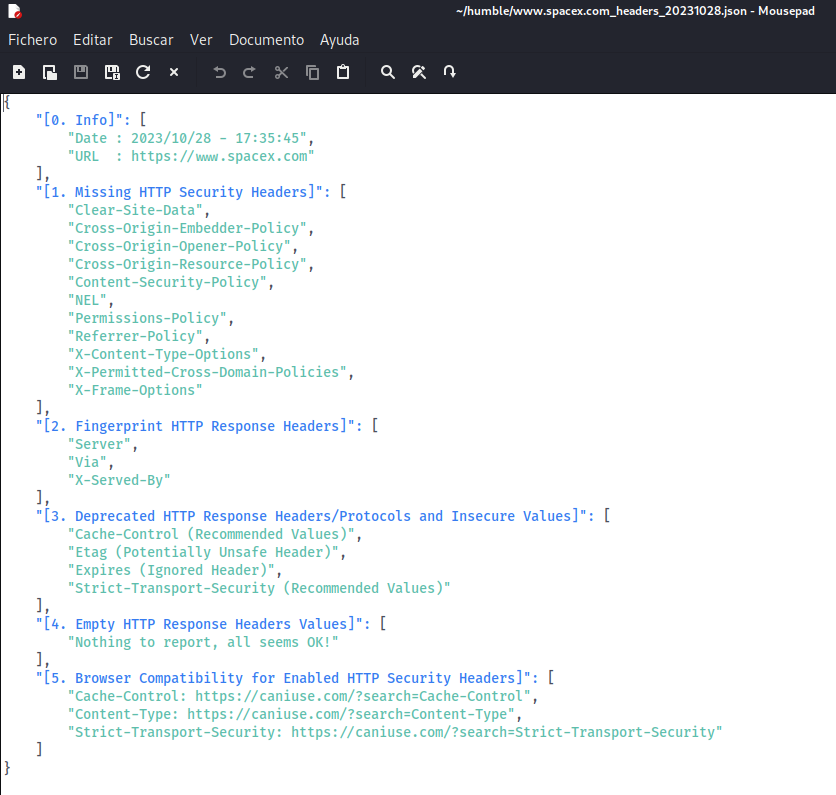
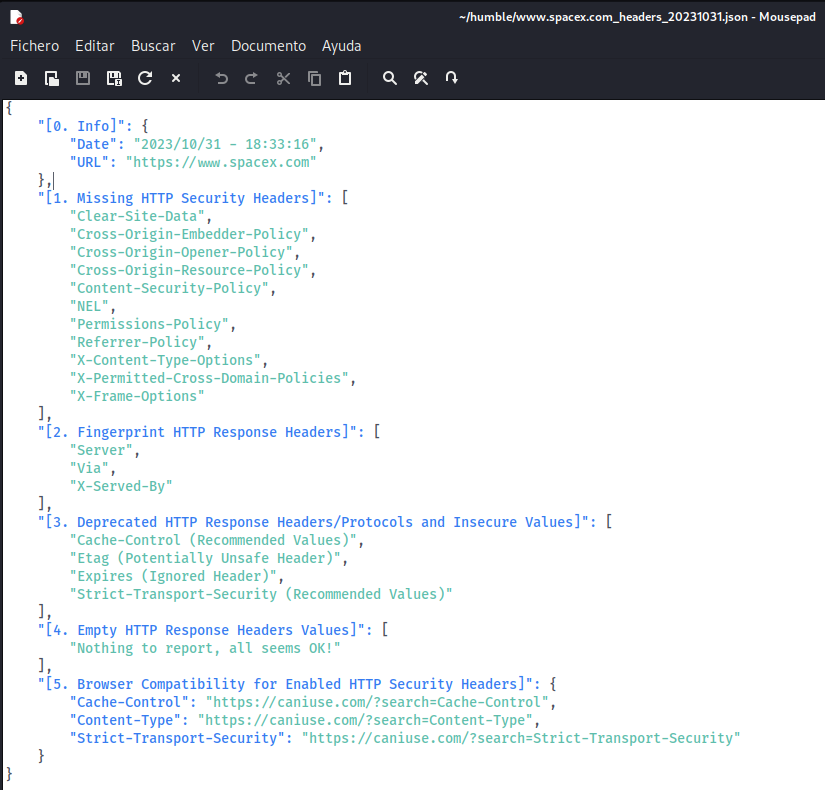
Feature: Improved JSON generation

Changed region(s): [[0.0, 0.0, 1.0, 0.9418], [0.5455, 0.0, 1.0, 0.0304], [0.0, 0.9418, 0.0606, 1.0]]

diff --git a/humble.py b/humble.py
@@ -76,7 +76,7 @@ URL_S = ' URL  : '
 
 export_date = datetime.now().strftime("%Y%m%d")
 now = datetime.now().strftime("%Y/%m/%d - %H:%M:%S")
-version = datetime.strptime('2023-10-28', '%Y-%m-%d').date()
+version = datetime.strptime('2023-10-31', '%Y-%m-%d').date()
 
 
 class PDF(FPDF):
@@ -730,21 +730,33 @@ def parse_csp(csp_header):
 
 
 def generate_json(name_e, name_p):
+    section0 = get_detail('[0section]', replace=True)
+    section5 = get_detail('[5compat]', replace=True)
     with (open(name_e, 'r', encoding='utf8') as source_txt,
           open(name_p, 'w', encoding='utf8') as final_json):
         txt_content = source_txt.read()
         txt_sections = re.split(r'\[(\d+\.\s[^\]]+)\]\n', txt_content)[1:]
         data = {}
-        for i in range(0, len(txt_sections), 2):
-            json_section = f"[{txt_sections[i]}]"
-            json_content = txt_sections[i + 1].strip()
-            if json_section == get_detail('[5compat]', replace=True):
-                json_content = json_content.split('.:')[0].strip()
-            json_lines = json_content.split('\n')
-            json_data = [line.strip() for line in json_lines if line.strip()]
-            data[json_section] = json_data
+        parse_sections_json(txt_sections, data, section0, section5)
         json_data = json.dumps(data, indent=4, ensure_ascii=False)
         final_json.write(json_data)
+
+
+def parse_sections_json(txt_sections, data, section0, section5):
+    for i in range(0, len(txt_sections), 2):
+        json_section = f"[{txt_sections[i]}]"
+        json_content = txt_sections[i + 1].strip()
+        if json_section == section5:
+            json_content = json_content.split('.:')[0].strip()
+        json_lines = json_content.split('\n')
+        if json_section in (section0, section5):
+            json_data = {}
+            for line in json_lines:
+                key, value = line.split(':', 1)
+                json_data[key.strip()] = value.strip()
+        else:
+            json_data = [line.strip() for line in json_lines if line.strip()]
+        data[json_section] = json_data
 
 
 def detail_exceptions(id_exception, exception_v):

diff --git a/README.md b/README.md
@@ -4,7 +4,7 @@
 <a target="_blank" href="https://www.python.org/downloads/" title="Minimum Python version required to run this tool"><img src="https://img.shields.io/badge/Python-%3E%3D3.9-blue?labelColor=343b41"></a>
 <a target="_blank" href="LICENSE" title="License of this tool"><img src="https://img.shields.io/badge/License-MIT-blue.svg?labelColor=343b41"></a>
 <a target="_blank" href="https://github.com/rfc-st/humble/releases" title="Latest release of this tool"><img src="https://img.shields.io/github/v/release/rfc-st/humble?display_name=release&label=Latest%20release&labelColor=343b41"></a>
-<a target="_blank" href="https://github.com/rfc-st/humble/commits/master" title="Latest commit of this tool"><img src="https://img.shields.io/badge/Latest_Commit-2023--10--28-blue.svg?labelColor=343b41"></a>
+<a target="_blank" href="https://github.com/rfc-st/humble/commits/master" title="Latest commit of this tool"><img src="https://img.shields.io/badge/Latest_Commit-2023--10--31-blue.svg?labelColor=343b41"></a>
 <a target="_blank" href="https://github.com/rfc-st/humble/actions?query=workflow%3ACodeQL" title="Results of the last analysis of this tool with CodeQL"><img src="https://github.com/rfc-st/humble/workflows/CodeQL/badge.svg"></a>
 <a target="_blank" href="https://owasp.org/www-project-secure-headers/#div-technical" title="Tool accepted as a technical resource for OWASP"><img src="https://img.shields.io/badge/OWASP-Resource-blue?labelColor=343b41"></a>
 <a target="_blank" href="https://www.kali.org/tools/humble/" title="Tool accepted in Kali"><img src="https://img.shields.io/badge/Kali%20Linux-Tool-blue?labelColor=343b41"></a>
@@ -294,7 +294,7 @@ Thanks for your time!! :).
 * <a href="https://github.com/Azathothas">Azathothas</a> for reporting <a href="https://github.com/rfc-st/humble/issues/4">this</a> bug.
 * <a href="https://github.com/bulaktm">bulaktm</a> for <a href="https://github.com/rfc-st/humble/issues/5">this</a> suggestion.
 * <a href="https://www.linkedin.com/in/david-boronat/">David</a>, for believing in the usefulness of this tool.
-* <a href="https://www.linkedin.com/in/eduardo-boronat/">Eduardo</a>, for making possible the first Demo and for the advanced usage example <i>"(Linux) - Analyze multiple URLs and save the results as PDFs"</i>.
+* <a href="https://www.linkedin.com/in/eduardo-boronat/">Eduardo</a>, for making possible the first Demo and for the example <i>"(Linux) - Analyze multiple URLs and save the results as PDFs"</i>.
 * <a href="https://github.com/gl4nce">gl4nce</a> for <a href="https://github.com/rfc-st/humble/issues/6">this</a> suggestion.
 * İDRİS BUDAK for reporting the need to <a href="https://github.com/rfc-st/humble/commit/f85dd7811859fd2e403a0ecd848b21db20949841">this</a> check.
 * <a href="https://github.com/manuel-sommer">manuel-sommer</a> for <a href="https://github.com/rfc-st/humble/issues/8">this</a> and <a href="https://github.com/rfc-st/humble/issues/10">this</a> suggestions.
